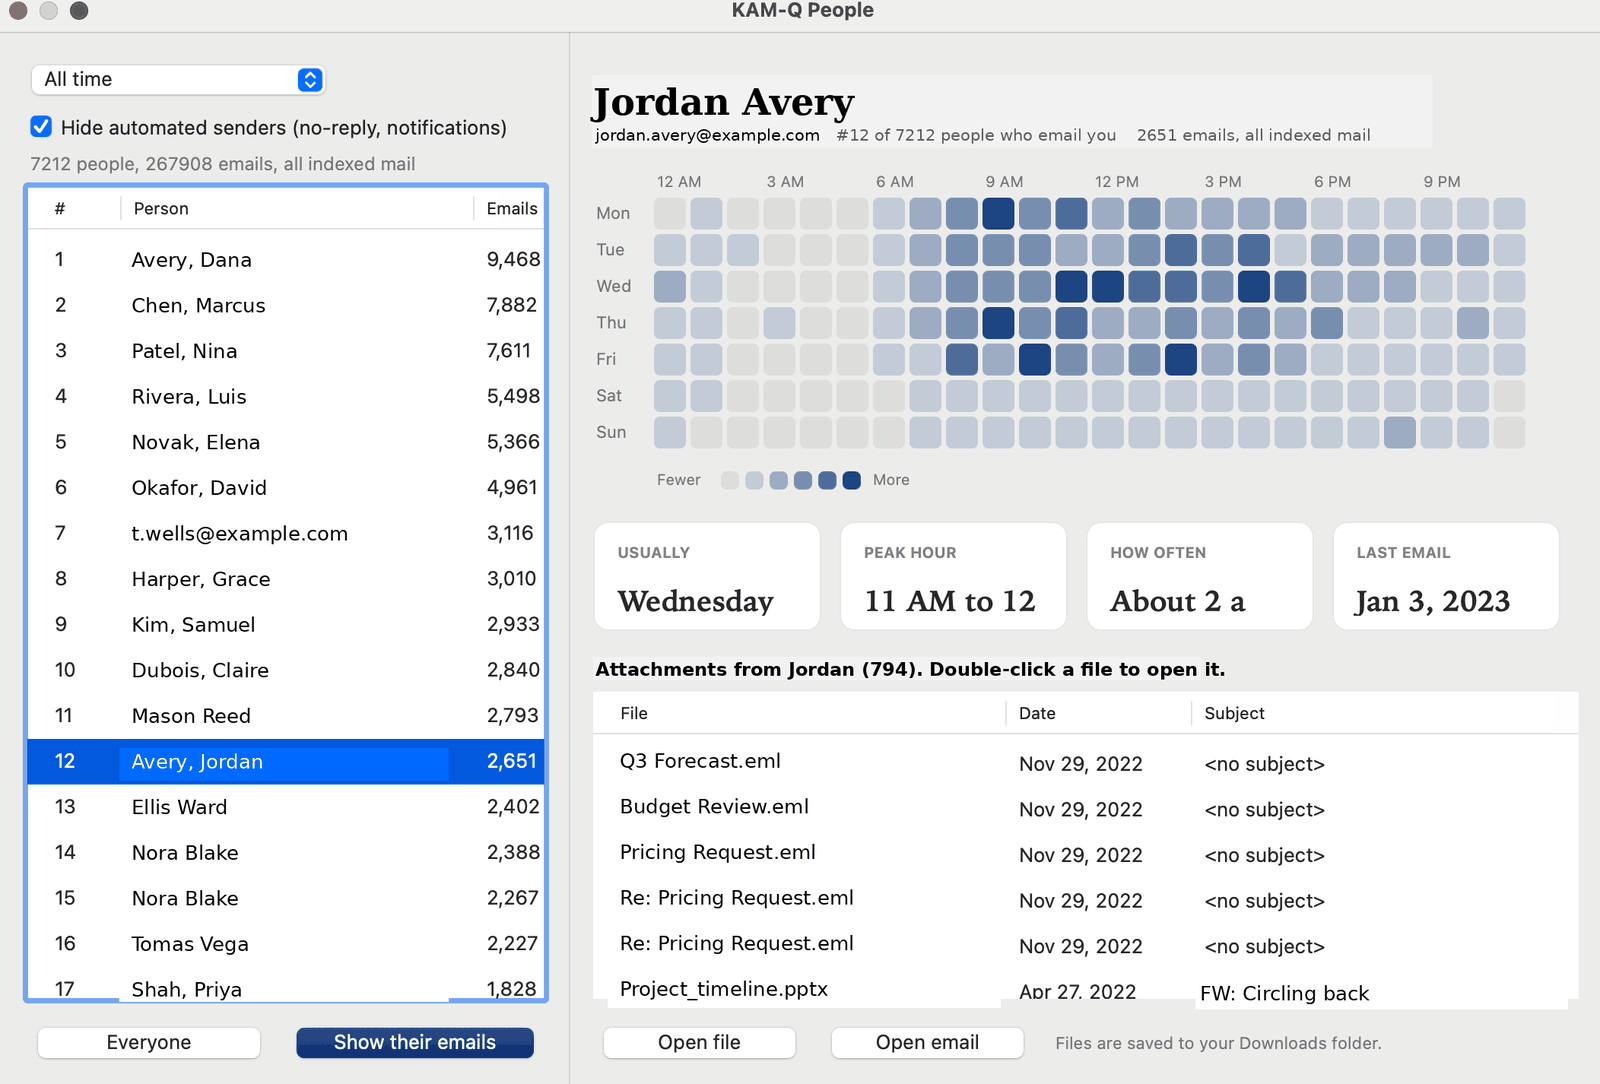
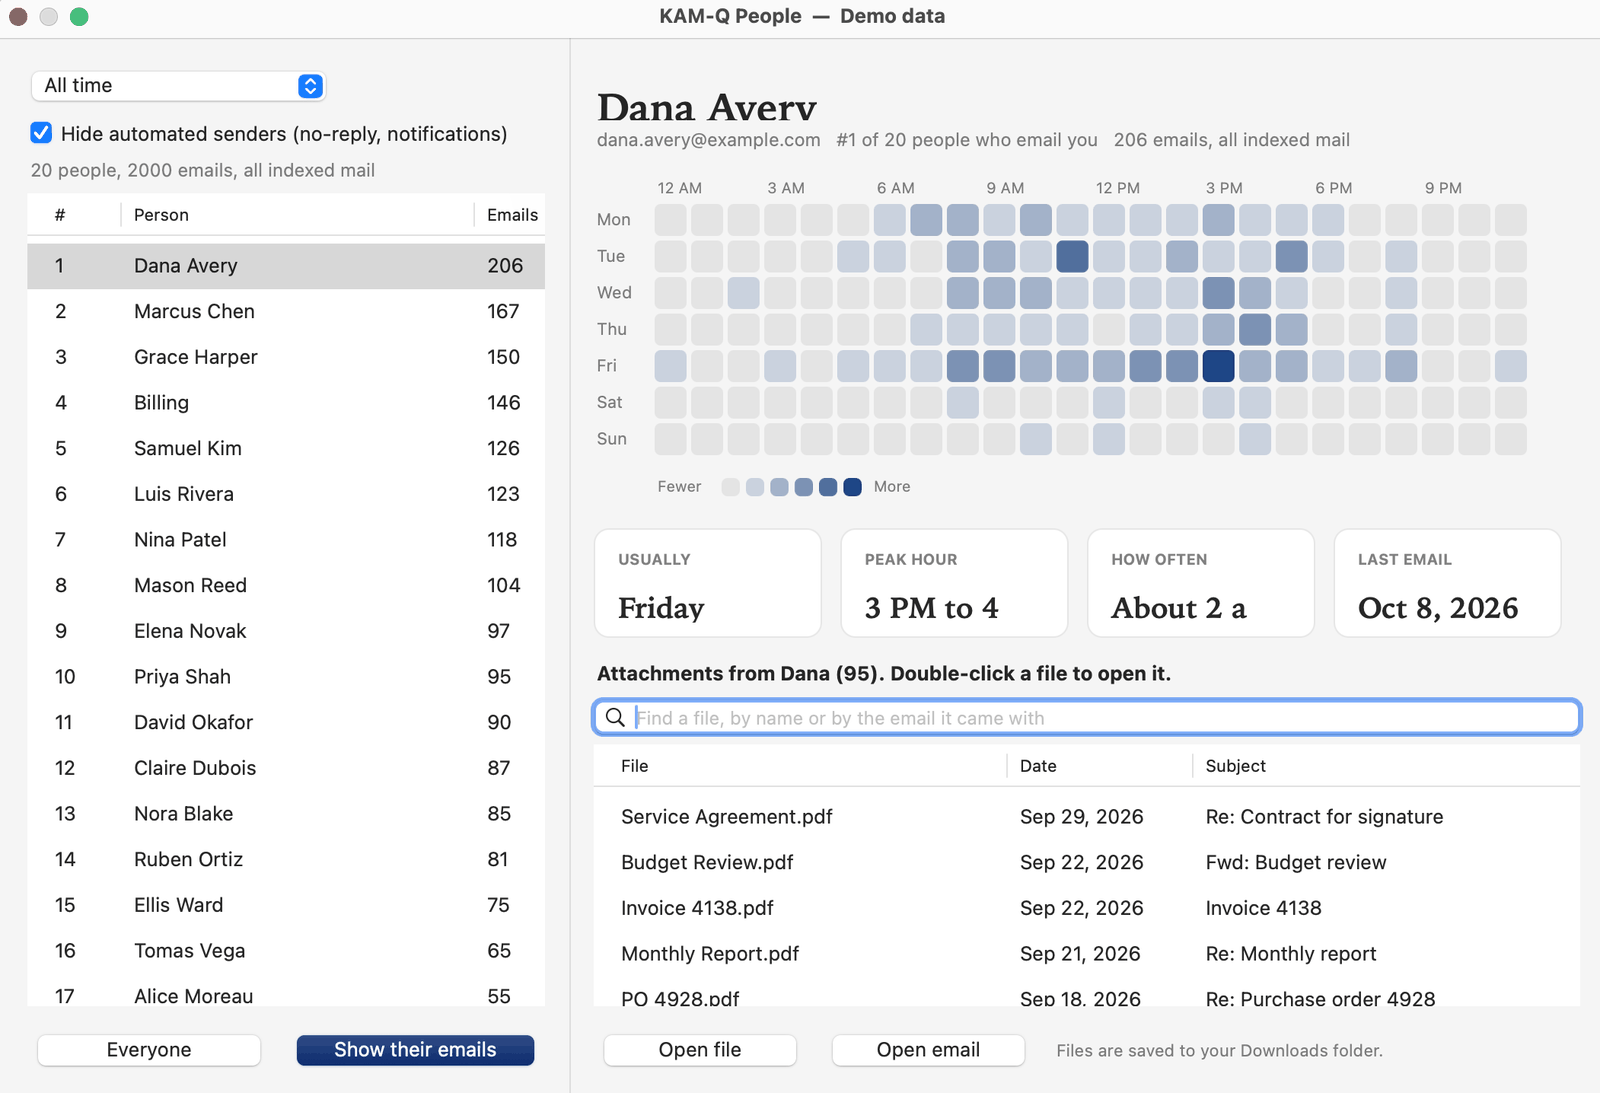
People screenshot: replace with demo-data capture showing the file search
The old image predates the attachment search box added in Windows 2.0.2,
Mac 3.3 and the web app, so the site was showing a People view without the
feature it now describes.

The new capture comes from the demo build, so every person, address,
filename and subject in it is invented. The previous candidate was taken
from a real mailbox and could not be published in any form.

Alt text and captions on both pages now mention searching inside one
person's files.

Pre-deploy checks: both repos synced; privacy, terms and refunds byte
identical; all seven installers unchanged by checksum before and after;
six conversion events unchanged; rendered and read at 1280 and 390;
rollback commit 00d9b2b.

Claude-Session: https://claude.ai/code/session_01MvFcYjN9kAtbnxZStovSTP

diff --git a/download.html b/download.html
@@ -52,7 +52,7 @@
 <h1>Download KAM-Q</h1>
 <p class="lead">Here is what is available today and what is on the way. Every version is free for 7 days, and one license covers all of them.</p>
 <div class="note" style="margin-bottom:26px"><b>Already know you want it?</b> <a href="https://kam-q.lemonsqueezy.com/checkout/buy/d6548869-0602-473a-8d7d-97cccf32d9f2?checkout%5Bdiscount_code%5D=FIRSTYEAR" data-ev="Checkout Click" data-ev-where="download-top">Buy KAM-Q</a>, then paste the license key into whichever app you are using. One license covers four installations across Windows and Mac.</div>
-<figure class="shot" style="margin:28px 0"><img src="assets/shot-people.png" alt="The KAM-Q People view" loading="lazy" width="1600" height="1084"><figcaption>The People view, included in every version.</figcaption></figure>
+<figure class="shot" style="margin:28px 0"><img src="assets/shot-people.png" alt="The KAM-Q People view, with a search box for finding a file among that person&#39;s attachments" loading="lazy" width="1600" height="1093"><figcaption>The People view, included in every version. Search inside one person&#39;s attachments to find a file.</figcaption></figure>
 <div class="grid g2" style="margin-top:28px">
 <div class="card"><span class="badge">Available now</span><h3>Windows</h3>
 <p>For classic Outlook on Windows 10 or 11. Free for 7 days. First year $39.99, or $24.99 with code FIRSTYEAR, then $19.99 a year. The installer needs no administrator rights.</p>

diff --git a/index.html b/index.html
@@ -154,8 +154,8 @@ Your browser cannot play this video. The screenshots below show the same thing.
 <figure class="shot"><img src="assets/shot-search.png" alt="KAM-Q search results on a mailbox of over 400,000 messages" loading="lazy" width="1600" height="1025">
 <figcaption>Results appear as you type. The line at the bottom is counting 406,436 messages.</figcaption></figure>
 <div class="grid g2" style="margin-top:28px">
-<figure class="shot"><img src="assets/shot-people.png" alt="The KAM-Q People view, showing senders ranked by how often they write" loading="lazy" width="1600" height="1084">
-<figcaption>People ranks everyone who writes to you, when they write, and every file they have sent.</figcaption></figure>
+<figure class="shot"><img src="assets/shot-people.png" alt="The KAM-Q People view, showing senders ranked by how often they write, with a search box for finding a file among that person&#39;s attachments" loading="lazy" width="1600" height="1093">
+<figcaption>People ranks everyone who writes to you, when they write, and every file they have sent. Search inside one person&#39;s files to find the one you want.</figcaption></figure>
 <figure class="shot"><img src="assets/shot-mac-search.png" alt="KAM-Q for Apple Mail searching a mailbox" loading="lazy" width="1600" height="1025">
 <figcaption>The same thing on a Mac. There is a separate app for Apple Mail.</figcaption></figure>
 </div>
